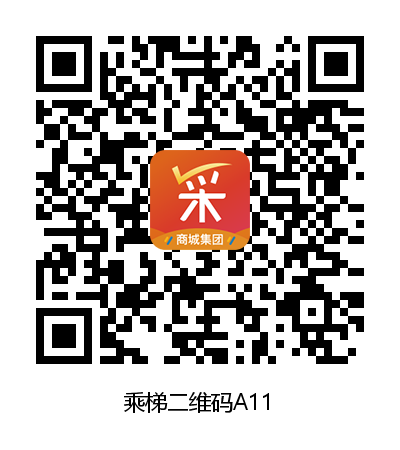
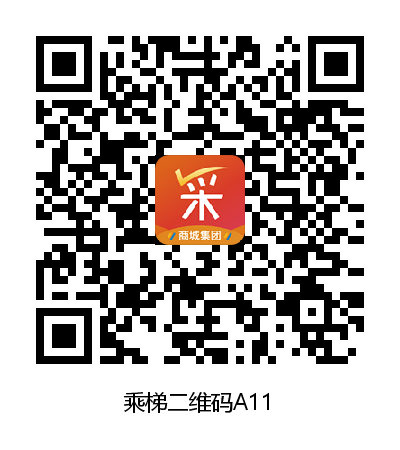
优化img新建图层

Changed region(s): [[0.36, 0.3111, 0.63, 0.56]]

diff --git a/src/main/java/com/kunbu/common/util/tool/img/ImgUtil.java b/src/main/java/com/kunbu/common/util/tool/img/ImgUtil.java
@@ -119,18 +119,29 @@ public class ImgUtil {
     }
 
     /**
-     * 绘制新图层，旧图层以外为透明
+     * 绘制新图层，起点是左上角，原图以外部分默认为透明，可选颜色
      *
      * @param oldBufImg
      * @param targetWidth
      * @param targetHeight
      * @return
      **/
-    public static BufferedImage newImg(BufferedImage oldBufImg, int targetWidth, int targetHeight) {
+    public static BufferedImage newImg(BufferedImage oldBufImg, int targetWidth, int targetHeight, Color color) {
         Graphics2D newG = null;
         try {
             BufferedImage qrBufImgNew = new BufferedImage(targetWidth, targetHeight, BufferedImage.TYPE_INT_ARGB);
             newG = qrBufImgNew.createGraphics();
+            if (color != null) {
+                // 填充底色
+                newG.setBackground(color);
+                int oldWidth = oldBufImg.getWidth();
+                int oldHeight = oldBufImg.getHeight();
+                if (oldHeight < targetHeight && oldWidth < targetWidth) {
+                    // 扩展部分上色（2部分）
+//                    newG.fillRect(0, qrBufImg.getHeight(),qrBufImg.getWidth(), qrBufImg.getHeight());
+//                    newG.fillRect(0, qrBufImg.getHeight(),qrBufImg.getWidth(), qrBufImg.getHeight());
+                }
+            }
             newG.drawImage(oldBufImg, 0, 0, oldBufImg.getWidth(), oldBufImg.getHeight(), null);
             return qrBufImgNew;
         } catch (Exception e) {
@@ -140,6 +151,16 @@ public class ImgUtil {
                 newG.dispose();
             }
         }
+    }
+
+    /**
+     * 缩放图片
+     *
+     * @param bufImg
+     * @param scale 同比伸缩
+     **/
+    public static BufferedImage scaleImg(BufferedImage bufImg, double scale) {
+        return scaleImg(bufImg, (int) (bufImg.getWidth() * scale), (int) (bufImg.getHeight() * scale));
     }
 
     /**

diff --git a/src/main/java/com/kunbu/common/util/tool/img/utils/QrCodeUtil.java b/src/main/java/com/kunbu/common/util/tool/img/utils/QrCodeUtil.java
@@ -89,9 +89,10 @@ public class QrCodeUtil {
             throw new RuntimeException(e);
         }
         // TODO 生成的二维码图层是黑白ARGB，需要改成全彩
-        qrBufImg = ImgUtil.newImg(qrBufImg, qrWidth, qrHeight);
+//        qrBufImg = ImgUtil.newImg(qrBufImg, qrWidth, qrHeight);
         // 2. 插入logo
         if (logoBufImg != null) {
+            logoBufImg = ImgUtil.scaleImg(logoBufImg, 0.9);
             int logoX = (qrBufImg.getWidth() - logoBufImg.getWidth()) / 2;
             int logoY = (qrBufImg.getHeight() - logoBufImg.getHeight()) / 2;
             ImgUtil.joinImg(qrBufImg, logoBufImg, logoX, logoY);
@@ -104,6 +105,7 @@ public class QrCodeUtil {
                 newG = qrBufImgNew.createGraphics();
                 // 填充底色
                 newG.setBackground(Color.WHITE);
+                // 扩展部分上色
                 newG.fillRect(0, qrBufImg.getHeight(),qrBufImg.getWidth(), qrBufImg.getHeight() + DEFAULT_QR_BOTTOM);
                 // 把二维码加上去
                 newG.drawImage(qrBufImg, 0, 0, qrBufImg.getWidth(), qrBufImg.getHeight(), null);
